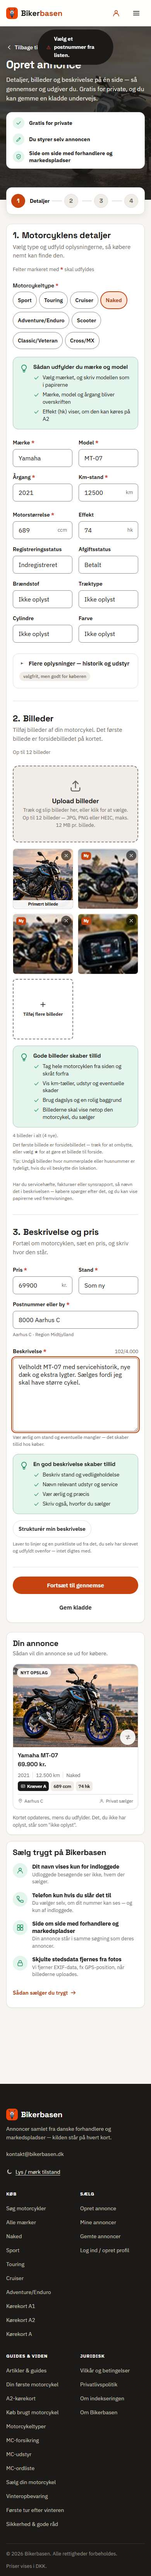
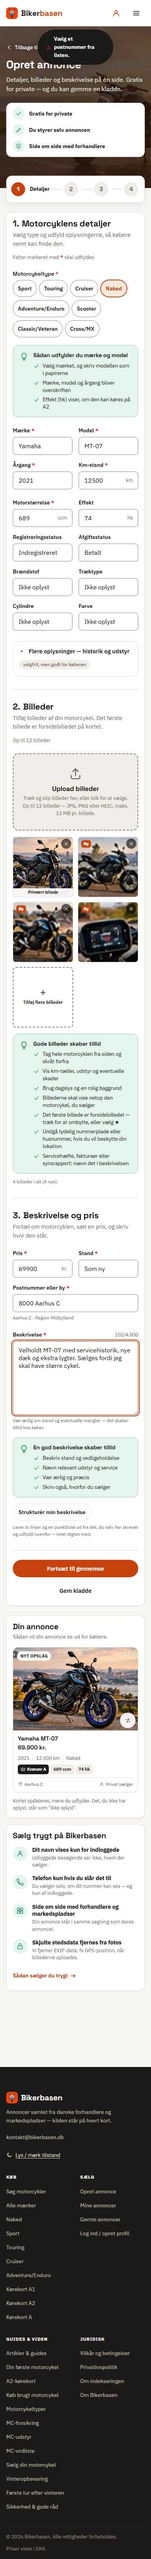
docs: agent3-annonce iteration 3 (kriterier, målinger, billeder)

diff --git a/docs/review/gauntlet/visual/agent3-annonce.md b/docs/review/gauntlet/visual/agent3-annonce.md
@@ -1,54 +1,54 @@
-# Agent 3 — Annoncedetaljer og opret-flow (Visual Fidelity Gauntlet)
+# Agent 3 — Annoncedetaljer og opret-flow (Visual Fidelity Gauntlet) — iteration 3
 
-Branch `gauntlet/w14-annonce` (fra fefe1570). Mål: `Annonce.png` (Yamaha MT-07) og `Opret annonce.png`. Billeder i `agent3-annonce/` (JPEG, samlet ca. 4,9 MB).
+Branch `gauntlet/w14-annonce` (fra fefe1570). Mål: `Annonce.png` (Yamaha MT-07) og `Opret annonce.png`. Billeder i `agent3-annonce/` (JPEG, samlet ca. 5,3 MB).
 Testfotos i målingerne er udsnit af mockuppens eget motorcykelfoto (kun lokalt, aldrig i repoet), fordi mockens fotos ellers er flade farver. De indeholder
-mockuppens indbagte "1/14"-mærke og pile i hjørnerne; det er et testartefakt, ikke en fejl i siden.
+mockuppens indbagte "1/14"-mærke og pile i hjørnerne, og det andet foto (brugt i tjekbåndet) er et lavopløseligt udsnit; det er testartefakter, ikke fejl i siden.
+Historik: runde 1 AFVIS 6/10 + 5/10, runde 2 AFVIS 6,5/10 + 5,5/10 (se `critic-agent3.md`, `critic2-agent3.md`). Denne fil beskriver status efter iteration 3.
 
-## Acceptkriterier (skrevet før koden; runde 2 efter Critic AFVIS 6/10 + 5/10 tilføjer A8–A12)
-- A1 Galleriets hovedbillede fylder hele sin boks: billedhøjde = boxhøjde ±1 px ved 1440.
-- A2 (omskrevet i runde 2) INGEN strækning: intet kort har > 40 px tomt rum under sit sidste indholdselement ved 1440 (egen med 5 og 0 fotos). Kolonnerne må ende ujævnt; hvide felter i sidens bund er ikke et kort med tomt rum.
-- A3 Kørekortkortet står i midterkolonnen, lavt (≤ 240 px), med stor badge til højre for teksten ved ≥ 1180 px; grundlag/legende sammenfoldet; kun oplyste tal og offentlige grænser (A2: 35 kW ≈ 47 hk), "Mulig" aldrig "bekræftet".
-- A4 Faktatabellen: to lige kolonner, "Ikke oplyst" sidst, ulige antal giver en sidste række i fuld bredde (ingen enlig halv række).
-- A5 Opret: billedsektionen har dropzone og miniaturer (≥ 100 px) i samme række, tips som bånd, ingen overflow.
-- A6 Ingen dubletter/tab af elementer ved resize 1440→1024→768→390→1440; 0 vandret overflow 320/390/768/1024/1440 lys+mørk.
-- A7 CLS < 0,05 (`smoke-browser --cls 0.05 --strikt`) på alle `annonce*.html` og `opret-annonce` ved 320–1440; SEO uændret; ingen opdigtet data.
-- A8 "Det bør du tjekke" i sidekolonnen under "Handl trygt" (standard), brede kort, foto som bånd over teksten, aldrig under den.
-- A9 Galleri: fuldskærmsknap og lightbox (Esc/pile, fokus tilbage) hvor der er egne fotos; "+N"-tile ved > 6 fotos.
-- A10 Opret: sektionsrækkefølge som billedet (1 Detaljer, 2 Billeder, 3 Beskrivelse og pris) på ÉN side, 4 trin i bjælken (Detaljer, Billeder, Beskrivelse & pris, Gennemse), fire kolonner i første feltrække.
-- A11 Login-gate bevares uden tab: udlogget ser en login-port i stedet for dropzonen (billeder overlever ikke en login-omvej), kladden gemmes og man lander ved billederne efter login.
-- A12 Tap-mål ≥ 40 px og kontrast ≥ 4,5:1 (målt med canvas-afledt farve, også på color-mix-flader) på annoncesiden, 320–1440 lys+mørk.
-Bevis: `js/w14-annonce.test.js` (9 browsertests), `js/w9-saelger.test.js` (33), smoke, egne målescripts (kontrast/tap).
+## Acceptkriterier (målbare; A13–A20 er tilføjet i iteration 3 efter Critic runde 2)
+- A1 Galleriets hovedbillede fylder hele sin boks (±1 px). A9 Fuldskærmsknap + lightbox (Esc/pile/fokus tilbage); "+N"-flise ved > 6 fotos (14 fotos → 5 miniaturer + "+9"); 0/1 foto: ingen pile eller miniaturer.
+- A2 Intet kort har > 40 px tomt rum under sit sidste indholdselement ved 1440 (ingen strækning).
+- A13 KOLONNEBUND: ved 1440 er forskellen mellem venstre, midterste og højre kolonnes bund højst 100 px (egen med 5/1/0 fotos, ekstern med foto/48 hk/uden foto/uden pris). Mål: bund venstre/midt/side + spredning pr. fixture (se Målinger).
+- A14 "Det bør du tjekke" er et FULDBREDT bånd (≥ 98 % af gridbredden) under alle tre kolonner, med foto ved siden af tjeklisten (egen: annoncens eget foto; ekstern: kildens thumbnail eller typefoto med ærligt label "Typefoto … — ikke annoncens eget").
+- A15 "Kan du køre denne motorcykel?": bred, lav flade (højst 190 px ved 1440), titel på én linje, stor badge (≥ 110 px) til højre, grundlag på én linje med kun oplyste tal + offentlig A2-grænse; "Mulig" aldrig "bekræftet".
+- A4/A16 Faktatabel uden "Ikke oplyst"-rækker: uoplyste felter samles i én linje "Ikke oplyst: Afgift, …"; ulige antal → sidste række i fuld bredde.
+- A5/A17 Opret: sektionsrækkefølge 1 Detaljer, 2 Billeder, 3 Beskrivelse og pris på én side; 4 trin i bjælken; første feltrække = 4 felter.
+- A18 Opret: hero ≤ 200 px ved 1440; forhåndsvisningen viser et fuldt kort FRA START, mærket "Eksempel" til mærke og model er valgt; kompakt upload-flise ≤ 140 px med miniaturefelter i samme række (spøgelsesfelter før første upload, "Primært billede").
+- A11/A19 Login-gate uden tab: udlogget ser en login-port i stedet for dropzonen; port og toast siger eksplicit, at billeder ikke kan gemmes i kladden og skal vælges efter login (test).
+- A6 Ingen dubletter/tab ved resize 1440→1024→768→390→1440; 0 vandret overflow 320/390/768/1024/1440 lys+mørk. A7 CLS < 0,05 (strikt). A12 Tap-mål ≥ 40 px og kontrast ≥ 4,5:1.
+- A20 Telefon-reveal logget ind (mock): nummer via RPC; uden samtykke ærlig afvisning.
 
-## Afvigelsesliste (prioriteret, fra egne observationer og Critics)
-1. Moduler: tyndt kørekortmodul → LUKKET (bred flade, stor badge, sammenfoldet grundlag + legende). Galleri uden fuldskærm → LUKKET (knap + lightbox).
-2. Layout: kort strakt til 490 px med 200 px tomt rum (align-stretch) → LUKKET (strækning fjernet, fast komposition: kørekort i midten, "Handl trygt" + "Det bør du tjekke" i sidekolonnen; for høj sidekolonne (lange kildetekster) flyttes tjek til venstre hvis det sparer ≥ 80 px højdeforskel).
-3. Hierarki/billedbrug: galleribillede dækkede 87 % af boksen (fejl) → LUKKET.
-4. Panelopbygning: faktatabel med enlig række og én kolonne ved 510 px → LUKKET. "Det bør du tjekke" klemt, tekst over fotoflade → LUKKET (foto som bånd). Sælgerpanel for tungt udlogget → delvist (to noter beholdt af tests, tredje "Mød altid sælger…" fjernet udlogget).
-5. Opret: billeder som eget trin efter pris, to trin-sider → LUKKET (billeder = sektion 2 på samme side, review = trin 4); første række 4 felter; tips som bånd; hero lavere; skillelinje før sektion 3.
-6. CLS 0,298 på `annonce-harley-davidson-flhx-2007-541ad405.html` ved 1024 mørk → LUKKET. Årsag: brødkrummen brækkede over to linjer i den forrenderede side og én linje efter hydrering (fejltilstand i smoke, hvor id'et ikke findes i fixtures); nu `nowrap` + ellipsis ≥ 900 px, og højden låses, når en fejltilstand erstatter siden.
-7. Typografi/detaljer: tap-mål (32 px-links, miniaturer 43×32) og lav kontrast → LUKKET/målt rent.
-8. Mikrointeraktion: lightbox tilføjet; favorit/sammenlign/kilde-link/telefon-reveal testet (telefon: nummer via RPC; uden samtykke ærlig afvisning).
+## Afvigelsesliste (prioriteret) og status
+1. KOLONNEBUND (hvidt hul under kolonner): LUKKET. "Det bør du tjekke" er nu et fuldbredt bånd under kolonnerne; "Handl trygt" og "Kan du køre" placeres af en optimerer (kørekort venstre/midt, trygt venstre/midt/side, beskrivelsens klip 12/9/7/5 linjer), og en tættere sidekolonne (kortere sælger-/tryghedskort uden "Medlem siden"-blok udlogget) samt pladsholder i foto-format (16:10) uden foto trækker bunde sammen. Før: 280–420 px forskel; nu 12–93 px (se Målinger).
+2. KØREKORTKORT smalt/højt, lille badge: LUKKET (158–170 px, titel på én linje, badge 140 px; legende og detalje-boks fjernet; lang 48–49 hk-forklaring: første sætning + "Hvorfor ikke afgjort?" som detalje).
+3. TJEKKORT blegnet afskåret fotobånd: LUKKET (figur ved siden af tjeklisten, 220 px høj; egen annonce bruger annoncens eget foto, ellers typefoto med label).
+4. FAKTATABEL flere "Ikke oplyst": LUKKET (samlet linje). Favorit på eksterne: HOLDT UDE (produktregel); "Se på kort": ikke lavet (ville sende by/postnr til en tredjepart; ingen kortfunktion i mine filer — Agent 2).
+5. OPRET-PREVIEW tomt indtil mærke+model: LUKKET (eksempelkort fra start, mærket "Eksempel"). Karrusel/galleripile i selve kortet: IKKE LUKKET (delt kortkomponent, Agent 2's regler).
+6. OPRET-BILLEDSEKTION stor stiplet flade: LUKKET (flise ≤ 140 px + miniaturefelter i samme række; fodnoter flyttet ind i tipsboksen).
+7. OPRET-HERO høj/kold: LUKKET (186 px, varm brun overlay, kortere tekst); advarsler i gennemse nu i brandfarve (ikke grøn/rød); "Sælgeroplysninger" er titlen på kortet "Sælgeroplysninger — sådan når købere dig" (navn/telefon-valg), ikke et selvstændigt trin (4 trin).
+8. LOGIN-PORT-TEKST: LUKKET (port + toast: "Billeder kan ikke gemmes i kladden, så dem vælger du først, når du er logget ind"; test).
+9. 1920: containeren er allerede `--site-w` = 1480 px (indhold 1416 px, gutters ~250 px ved 1920). Ikke ændret (header/tokens er Agent 1's); Critics "1150 px" er ikke gengivet.
 
 ## Tilbageværende — ligner ikke endnu (ærligt)
-- Sælgerpanel udlogget er stadig højere end billedets (ingen avatar/stjerner/svartid/"Ring op"/"Send besked"/"autoriseret": må ikke opdigtes eller er ikke bygget). Derfor ender sidekolonnen ofte 150–300 px under de andre, og bunden af venstre/midterkolonne står hvid.
-- Beskrivelse uden grønne check-punkter for eksterne annoncer (ingen data); egne får dem kun når felterne er udfyldt.
-- Ingen finansieringsforslag, "+10 billeder", forhandlerlogo, kort-link (ingen data); eksterne har ét thumbnail uden fuldskærm.
-- Opret: ingen titelfelt (titlen udledes af mærke/model/årgang), ingen B/I-værktøjslinje, ingen model-dropdown, intet rytterfoto i hero (findes ikke i repoet), 4 trin mod billedets 5 ("Sælgeroplysninger" findes ikke som valg), ingen "Vis eksempel på fuld annonce" og ingen galleripile i forhåndsvisningen (delt kortkomponent, Agent 2).
-- Opret er lidt mindre kompakt end billedet (feltrækkerne er højere, trin 1 har 3 felt-rækker + fold).
-- Udlogget sælger kan ikke vælge billeder før login (bevidst, se A11); i billedet ligger upload frit.
-- Forhåndsvisningens første række i fejltilstand viser toast over felter (kun kosmetik).
+- Sælgerpanel udlogget: ingen avatar/stjerner/svartid/"Ring op"/"Send besked"/"autoriseret" (opdigtet eller ikke bygget). Panelet er kompaktere end før, men ikke mockuppens grønne kontaktkort.
+- Eksempelkortet i opret har ingen karrusel/prikker/"Vis eksempel på fuld annonce" (delt kortkomponent).
+- Opret: ingen titelfelt (titlen udledes), ingen B/I-værktøjslinje, ingen model-dropdown, intet rytterfoto i hero (findes ikke i repoet), 4 mod 5 trin, "Sælgeroplysninger" ikke som eget trin, udlogget kan ikke vælge billeder før login.
+- Kolonnebunde: spredning op til 93 px (egen 5 fotos 83, ekstern 48 hk 93) — over mockuppens næsten-nul, men under 100 px.
+- Ingen finansieringsforslag, "+10 billeder", forhandlerlogo, "Se på kort".
+- Tjekbåndets foto for eksterne uden thumbnail er et typefoto (ærligt mærket), ikke motorcyklen selv.
 
-## Målinger (runde 2)
-- `node --test js/w14-annonce.test.js`: 9/9. `js/w9-saelger.test.js`: 33/33 (5 tests opdateret bevidst: billeder er sektion 2 på samme side, trinnavne, ét tilbage-trin, login-port). `js/w9-marketplace-r2.test.js` opdateret bevidst (ingen strækning).
-- `smoke-browser --sider "annonce*.html,opret-annonce" --viewports 320,390,768,1024,1440 --cls 0.05 --strikt`: 40 målinger, 0 fejl, 0 advarsler.
-- Kontrast/tap (`annonce` egen + ekstern × 320/390/768/1024/1440 × lys/mørk, 20 sider): 0 fund under 4,5:1 (3:1 for stor tekst), 0 tap-mål < 40 px efter rettelse.
-- `kritisk-gen` + `scripts/w12-kritisk.test.js`: 18/18. `npm run gate` (uden build): node --check, hele `npm test`, synk-header, seo-audit, sitemap, døde links, udgiv = OK. Trin 7 rød, til Orchestratoren tilføjer `js/w14-annonce.test.js` til package.json "test".
+## Målinger (iteration 3)
+- Kolonnebunde ved 1440 (venstre/midt/side → forskel): egen 5 fotos 874/909/826 → 83; egen uden foto 759/787/826 → 67; egen 1 foto 802/777/826 → 49; ekstern med foto 854/893/925 → 71; ekstern 48 hk 859/862/952 → 93; ekstern uden foto 870/882/879 → 12; ekstern uden pris 854/873/832 → 41.
+- Kørekortflade 158–170 px, titel 18 px høj (én linje). Hero 186 px. Upload-flise 132 px.
+- `js/w14-annonce.test.js`: 13 tests (kolonnebunde, fuldbredt tjek, kørekortflade, uoplyst-linje, preview/upload/hero, login-port-tekst, "+N"-flise, telefon-reveal, resize, overflow m.m.). `js/w9-saelger.test.js` 33, `js/annonce-skal.test.js` opdateret bevidst (uoplyste felter samlet i én linje), `js/w9-marketplace-r2.test.js` opdateret bevidst (ingen strækning).
+- `smoke-browser --sider "annonce*.html,opret-annonce" --viewports 320,390,768,1024,1440 --cls 0.05 --strikt`: 40 målinger, 0 fejl, 0 advarsler. Kontrast/tap (egen+ekstern × 320–1440 × lys/mørk): 0 fund efter at "Hvorfor ikke afgjort?" fik 40 px højde.
+- `kritisk-gen` + `scripts/w12-kritisk.test.js` 18/18. `npm run gate` (uden build): se rapport; trin 7 rød indtil Orchestratoren tilføjer `js/w14-annonce.test.js` til package.json "test".
 
 ## Billeder (agent3-annonce/)
-reference-annonce/opret; foer-annonce 1440/390, foer-opret; efter-annonce 1440/768/390 lys og mørk; efter-ekstern (48 hk, lys; med foto, mørk); efter-opret 1440 lys/mørk, 768, 390, gennemse og fejl; side-om-side (mockup | efter) pr. nøglesektion: sbs-annonce-oeverst/nederst, sbs-opret-oeverst/nederst.
+reference-annonce/opret; foer-annonce 1440/390 og foer-opret; efter-annonce 1440/1920/768/390 lys, 1440/768/390 mørk, uden foto; efter-ekstern 48 hk (lys) og med foto (mørk); efter-opret 1440 (tom), udfyldt, mørk, 1920, 768, 390, gennemse, fejl; side-om-side (mockup | efter) pr. nøglesektion: sbs-annonce-oeverst/nederst, sbs-opret-oeverst/nederst.
 
 ## Ærlig score mod mockuppen (selvvurdering, ikke godkendelse)
-Annonce ca. 7/10, opret ca. 6,5/10. Komposition og sektionsrækkefølge følger billederne nu; den største rest er sælgerpanelet og at kolonnerne ender ujævnt.
+Annonce ca. 7,5/10, opret ca. 7/10.
 
 ## Nye testfiler (package.json er Orchestratorens)
 `js/w14-annonce.test.js`.
